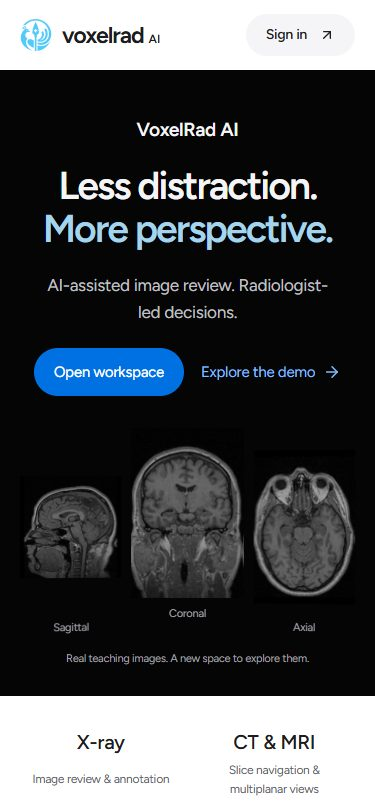
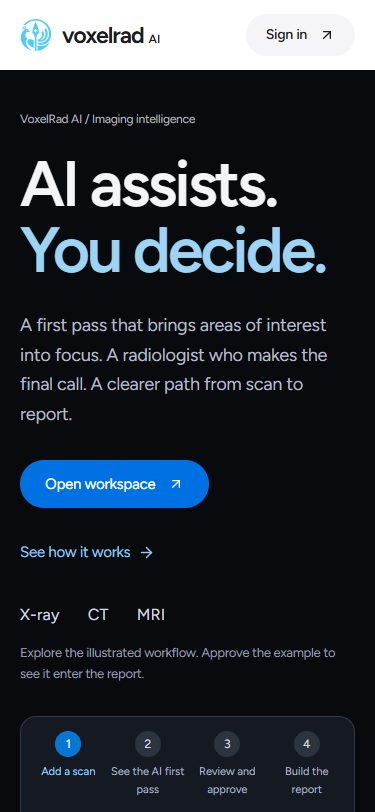
Rebuild landing hero with animated radiologist approval workflow

diff --git a/app/src/LandingPage.tsx b/app/src/LandingPage.tsx
@@ -73,10 +73,11 @@ const flowSteps = [
   { title: 'Build the report', text: 'Reviewed findings help form a report draft. Refine the impression and complete a final review before exporting.', action: 'Start again' },
 ]
 
-function ReviewFlow() {
+function ReviewFlow({ hero = false }: { hero?: boolean }) {
+  const flowRef = useRef<HTMLDivElement>(null)
   const [step, setStep] = useState(0)
   const [approved, setApproved] = useState(false)
-  const [playing, setPlaying] = useState(false)
+  const [playing, setPlaying] = useState(() => hero && !window.matchMedia('(prefers-reduced-motion: reduce)').matches)
   const [modality, setModality] = useState('CT')
   const [overlay, setOverlay] = useState(true)
   const current = flowSteps[step]
@@ -87,28 +88,35 @@ function ReviewFlow() {
   }, [playing, step])
   useEffect(() => {
     const pause = () => { if (document.hidden) setPlaying(false) }
+    const preference = window.matchMedia('(prefers-reduced-motion: reduce)')
+    const reduce = () => { if (preference.matches) setPlaying(false) }
+    const observer = new IntersectionObserver(entries => { if (entries.some(entry => !entry.isIntersecting)) setPlaying(false) })
+    if (flowRef.current) observer.observe(flowRef.current)
+    preference.addEventListener('change', reduce)
     document.addEventListener('visibilitychange', pause)
-    return () => document.removeEventListener('visibilitychange', pause)
+    return () => { observer.disconnect(); preference.removeEventListener('change', reduce); document.removeEventListener('visibilitychange', pause) }
   }, [])
   const advance = () => {
     setPlaying(false)
     if (step === 2) setApproved(true)
     if (step === 3) { setStep(0); setApproved(false) } else setStep(step + 1)
   }
-  return <div className="lp3-flow">
+  return <div ref={flowRef} id={hero ? "hero-review" : undefined} className={`lp3-flow ${hero ? "lp4-hero-flow" : ""}`} data-current-step={step} data-approved={approved}>
     <ol className="lp3-flow-nav" aria-label="Scan to report workflow">{flowSteps.map((item,index) => <li key={item.title}><button aria-current={step === index ? 'step' : undefined} onClick={() => { setPlaying(false); setStep(index) }}><span>{index + 1}</span>{item.title}</button></li>)}</ol>
+    <div className="lp3-flow-progress" aria-hidden="true"><span style={{ transform: `scaleX(${(step + 1) / 4})` }} /></div>
     <div className="lp3-flow-body">
       <div className="lp3-flow-visual" data-step={step}>
         <div className="lp3-flow-scene">
+          {step === 1 && <div className="lp3-analysis-caption" aria-hidden="true">Illustrating AI attention</div>}
           <div className="lp3-flow-scan"><div className="lp3-scan-header"><ScanLine size={15} /><span>{modality} teaching scan</span><span>Source image</span></div><img src={modality === 'CT' ? '/login/ct-poster.webp' : '/login/mr-axial.webp'} alt={`${modality} teaching scan with illustrative review overlays`} />
-          {step > 0 && overlay && <div className="lp3-evidence" aria-label="Illustrative heatmap and candidate box, not a model result"><div className="lp3-heatmap" /><div className="lp3-detection-box"><span>Candidate region</span></div></div>}
+          {step > 0 && overlay && <div key={`${step}-${modality}`} className="lp3-evidence" aria-label="Illustrative heatmap and candidate box, not a model result">{step === 1 && <div className="lp3-scan-sweep" />}<div className="lp3-heatmap" /><div className="lp3-detection-box"><span>Candidate region</span></div></div>}
           <div className="lp3-scan-footer"><span>{step === 0 ? 'Ready for review' : 'Illustrative overlay'}</span><span>{step > 1 && approved ? 'Reviewed in demo' : 'Not reviewed'}</span></div></div>
           <div className={`lp3-finding-card ${step > 0 ? 'is-visible' : ''}`}><span className="lp3-card-label">{step > 1 ? 'Radiologist review' : 'AI first pass'}</span><strong>{approved ? 'Example approved' : 'Candidate finding'}</strong><p>{approved ? 'Added to this demonstration draft.' : 'Compare the highlighted region with the original scan.'}</p><span className="lp3-review-status">{approved ? <Check size={16} /> : <Layers3 size={16} />}{approved ? 'Reviewed' : 'Needs your review'}</span></div>
           <div className={`lp3-flow-report ${step === 3 ? 'is-visible' : ''}`}><FileText size={23} /><span>REPORT DRAFT</span><h3>Your review.<br />In your report.</h3><div><strong>Findings</strong><p>{approved ? 'Example finding approved in this demo.' : 'No finding approved. Return to step 3 to review.'}</p></div><div><strong>Impression</strong><p>To be written and verified by the radiologist.</p></div><span className="lp3-report-status">Draft · Final review required</span></div>
         </div>
         <div className="lp3-flow-tools"><div aria-label="Teaching scan modality">{['CT','MRI'].map(value => <button key={value} aria-pressed={modality === value} onClick={() => setModality(value)}>{value}</button>)}</div>{step > 0 && <button aria-pressed={overlay} onClick={() => setOverlay(!overlay)}>{overlay ? 'Hide overlays' : 'Show overlays'}</button>}<button onClick={() => { setStep(0); setApproved(false); setPlaying(!playing) }}>{playing && step < 2 ? <Pause size={15} /> : <Play size={15} />}{playing && step < 2 ? 'Pause' : 'Play walkthrough'}</button></div>
       </div>
-      <div className="lp3-flow-copy" aria-live="polite"><p className="lp2-label">{String(step + 1).padStart(2,'0')} / 04</p><h3>{current.title}</h3><p>{current.text}</p>{step === 2 && <p className="lp3-review-hint">Your turn: approve this illustrative finding to see it carried into the report.</p>}<button className="lp2-primary" onClick={advance}>{step === 2 ? <Check size={17} /> : step === 3 ? <RotateCcw size={17} /> : null}{current.action}{step < 2 && <ArrowRight size={17} />}</button><p className="lp3-disclosure">Illustrative workflow, not live inference. No diagnostic finding is made. Hosted AI requires a configured model server.</p></div>
+      <div className="lp3-flow-copy" aria-live="polite"><div key={step} className="lp3-step-copy"><p className="lp2-label">{String(step + 1).padStart(2,'0')} / 04</p><h3>{current.title}</h3><p>{current.text}</p>{step === 2 && <p className="lp3-review-hint">Your turn: approve this illustrative finding to see it carried into the report.</p>}<button className="lp2-primary" onClick={advance}>{step === 2 ? <Check size={17} /> : step === 3 ? <RotateCcw size={17} /> : null}{current.action}{step < 2 && <ArrowRight size={17} />}</button><p className="lp3-disclosure">Illustrative workflow, not live inference. No diagnostic finding is made. Hosted AI requires a configured model server.</p></div></div>
     </div>
   </div>
 }
@@ -138,13 +146,13 @@ function GuidedDemo() {
 
 export function LandingPage() {
   useEffect(() => { document.title = 'VoxelRad AI — Your imaging workspace, reimagined' }, [])
-  return <div className="landing-page lp2-page">
+  return <div className="landing-page lp2-page" onKeyDownCapture={(event) => { event.currentTarget.dataset.motionInput = "keyboard" }} onPointerDownCapture={(event) => { event.currentTarget.dataset.motionInput = "pointer" }}>
     <a className="lp-skip" href="#main">Skip to content</a>
     <header className="lp2-header lp2-wrap"><a className="lp2-brand" href="/" aria-label="VoxelRad AI home"><img src="/skanda-mark.png" alt="" /><span>voxelrad<span>AI</span></span></a><nav aria-label="Main navigation"><a href="#how-it-works">How it works</a><a href="#for-you">Who it’s for</a><a href="#demo">Try the demo</a></nav><a className="lp2-nav-login" href="/workspace">Sign in <ArrowUpRight size={16} /></a></header>
     <main id="main">
-      <section className="lp3-hero" aria-labelledby="hero-title"><div className="lp2-wrap"><p className="lp3-product-name">VoxelRad AI</p><h1 id="hero-title">Less distraction.<br /><span>More perspective.</span></h1><p className="lp3-intro">AI-assisted image review. Radiologist-led decisions.</p><div className="lp3-actions"><a className="lp2-primary" href="/workspace">Open workspace</a><a className="lp3-demo-link" href="#demo">Explore the demo <ArrowRight size={18} /></a></div><div className="lp3-imaging"><figure><img src="/login/mr-sagittal.webp" alt="Sagittal MRI teaching image" /><figcaption>Sagittal</figcaption></figure><figure><img src="/login/mr-coronal.webp" alt="Coronal MRI teaching image" /><figcaption>Coronal</figcaption></figure><figure><img src="/login/mr-axial.webp" alt="Axial MRI teaching image" /><figcaption>Axial</figcaption></figure></div><p className="lp3-hero-note">Real teaching images. A new space to explore them.</p></div></section>
+      <section className="lp4-hero" aria-labelledby="hero-title"><div className="lp2-wrap lp4-hero-layout"><div className="lp4-hero-copy"><p className="lp4-kicker">VoxelRad AI / Imaging intelligence</p><h1 id="hero-title">AI assists.<br /><span>You decide.</span></h1><p className="lp4-description">A first pass that brings areas of interest into focus. A radiologist who makes the final call. A clearer path from scan to report.</p><div className="lp4-actions"><a className="lp2-primary" href="/workspace">Open workspace <ArrowUpRight size={16} /></a><a href="#how-it-works">See how it works <ArrowRight size={17} /></a></div><p className="lp4-formats">X-ray <span>CT</span> MRI</p><p className="lp4-caption">Explore the illustrated workflow. Approve the example to see it enter the report.</p></div><ReviewFlow hero /></div></section>
       <section className="lp2-capabilities lp2-wrap" aria-label="Workspace capabilities"><div><strong>X-ray</strong><span>Image review & annotation</span></div><div><strong>CT & MRI</strong><span>Slice navigation & multiplanar views</span></div><div><strong>Findings</strong><span>Evidence beside the image</span></div><div><strong>Reports</strong><span>Draft, review & export</span></div></section>
-      <section className="lp3-flow-section" id="how-it-works" aria-labelledby="flow-title"><div className="lp2-wrap"><div className="lp3-flow-heading"><p className="lp2-label">From scan to report</p><h2 id="flow-title">AI takes the first pass.<br />You make the call.</h2><p>Upload a scan. Let AI highlight areas for attention with heatmaps and boxes. Review the evidence, approve or revise the findings, then bring them into a report.</p></div><ReviewFlow /><p className="lp3-flow-benefit">Designed to help radiologists find areas of interest sooner and spend less time assembling reports.</p></div></section>
+      <section className="lp3-flow-section" id="how-it-works" aria-labelledby="flow-title"><div className="lp2-wrap"><div className="lp3-flow-heading"><p className="lp2-label">From scan to report</p><h2 id="flow-title">AI takes the first pass.<br />You make the call.</h2><p>Upload a scan. Let AI highlight areas for attention with heatmaps and boxes. Review the evidence, approve or revise the findings, then bring them into a report.</p></div><div className="lp4-process">{flowSteps.map((item,index) => <article key={item.title}><span>{String(index+1).padStart(2,'0')}</span><h3>{item.title}</h3><p>{item.text}</p></article>)}</div><a className="lp4-replay" href="#hero-review">Try the illustrated workflow <ArrowRight size={17} /></a><p className="lp3-flow-benefit">Designed to help radiologists find areas of interest sooner and spend less time assembling reports.</p></div></section>
       <section className="lp2-demo-section" id="demo" aria-labelledby="demo-title"><div className="lp2-wrap"><div className="lp2-section-title"><div><p className="lp2-label">A little less reading. A little more doing.</p><h2 id="demo-title">Meet your workspace.</h2></div><p>Try a three-step walkthrough with a real teaching scan. Change the view, add an observation, and see it in a sample draft.</p></div><GuidedDemo /></div></section>
       <section className="lp2-audience lp2-wrap" id="for-you" aria-labelledby="audience-title"><div className="lp2-section-title"><div><p className="lp2-label">Who it’s for</p><h2 id="audience-title">For people<br />who look closer.</h2></div><p>For evaluating imaging workflows, learning from anatomy, and exploring model-assisted review.</p></div><div className="lp2-audience-grid">
         <article><span>Clinical evaluation</span><h3>Radiologists & clinicians</h3><p>Explore a focused image-to-report workflow. Keep the source scan visible as you review findings and develop your interpretation.</p><ul><li>Multiplanar CT and MRI review</li><li>Image, findings and report together</li><li>Professional judgment at every step</li></ul></article>

diff --git a/app/src/landing.css b/app/src/landing.css
@@ -318,3 +318,78 @@
 @media(max-width:1050px) { .lp3-flow-nav { padding-inline:15px; gap:2px; } .lp3-flow-nav button { font-size:12px; gap:6px; } .lp3-flow-copy { padding:30px 24px; } .lp3-flow-scene { height:420px; } .lp3-flow-scan { width:260px; } .lp3-flow-scan>img { height:250px; } .lp3-finding-card { width:180px; padding:14px; } }
 @media(max-width:760px) { .lp3-flow-section { padding-block:55px; } .lp3-flow-heading>p:last-child { font-size:17px; } .lp3-flow-heading h2 { font-size:35px; } .lp3-flow-nav { grid-template-columns:1fr 1fr; padding:12px; gap:3px; } .lp3-flow-nav button { font-size:12px; } .lp3-flow-body { grid-template-columns:1fr; } .lp3-flow { border-radius:16px; } .lp3-flow-scene { height:390px; } .lp3-flow-scan { width:230px; } .lp3-flow-scan>img { height:235px; } .lp3-flow-copy { padding:28px 23px; min-height:350px; } .lp3-flow-copy h3 { font-size:28px; } .lp3-flow-copy>p:not(.lp2-label) { font-size:16px; } .lp3-finding-card { right:0; bottom:15px; width:175px; } .lp3-flow-visual { padding:12px; } .lp3-flow-report { width:235px; padding:20px; } .lp3-flow-report.is-visible { transform:translate3d(5px,0,45px) rotateY(-5deg); } .lp3-flow-benefit { font-size:17px; } }
 @media(prefers-reduced-motion:reduce) { .lp2-page * { animation:none!important; transition:none!important; } }
+/* Motion story: scan → attention → human decision → report. */
+.lp3-flow-progress { height:3px; background:#e7edf5; overflow:hidden; }
+.lp3-flow-progress>span { display:block; height:100%; background:#0071e3; transform-origin:left; transition:transform .55s cubic-bezier(.22,1,.36,1); }
+.lp3-analysis-caption { position:absolute; top:8px; left:0; right:0; text-align:center; font-size:11px; color:#536a80; z-index:2; }
+.lp3-scan-sweep { position:absolute; inset:0; border-top:2px solid #a3ddff; background:linear-gradient(to bottom,#74c8ff25,transparent 18%); transform:translateY(-100%); animation:lp-sweep 1.15s cubic-bezier(.4,0,.2,1) both; }
+@keyframes lp-sweep { 0% { transform:translateY(-90%); opacity:0; } 15% { opacity:1; } 85% { opacity:1; } 100% { transform:translateY(100%); opacity:0; } }
+.lp3-flow[data-current-step='1'] .lp3-heatmap { animation:lp-attention .8s .45s cubic-bezier(.22,1,.36,1) both; }
+@keyframes lp-attention { from { opacity:0; transform:scale(.65); } to { opacity:1; transform:scale(1); } }
+.lp3-flow[data-current-step='1'] .lp3-detection-box { animation:lp-box .45s .95s cubic-bezier(.22,1,.36,1) both; }
+@keyframes lp-box { from { opacity:0; transform:scale(1.12); } to { opacity:1; transform:scale(1); } }
+.lp3-flow[data-current-step='1'] .lp3-finding-card.is-visible { transition-delay:.95s; }
+.lp3-flow[data-current-step='2'] .lp3-finding-card { border-color:#88b9e8; }
+.lp3-flow[data-current-step='3'][data-approved=true] .lp3-finding-card { animation:lp-carry-finding .8s cubic-bezier(.65,0,.35,1) both; }
+@keyframes lp-carry-finding { 0% { visibility:visible; opacity:1; transform:translate3d(0,0,40px) rotateY(-8deg); } 65% { visibility:visible; opacity:.85; transform:translate3d(-45px,-70px,80px) scale(.7); } 100% { visibility:hidden; opacity:0; transform:translate3d(-90px,-105px,80px) scale(.35); } }
+.lp3-flow[data-current-step='3'] .lp3-flow-report.is-visible { transition-delay:.25s; }
+.lp3-flow[data-current-step='3'] .lp3-flow-report>div { animation:lp-report-line .45s .6s cubic-bezier(.22,1,.36,1) both; }
+.lp3-flow[data-current-step='3'] .lp3-flow-report>div+div { animation-delay:.78s; }
+@keyframes lp-report-line { from { opacity:0; transform:translateY(9px); } to { opacity:1; transform:translateY(0); } }
+.lp3-step-copy { animation:lp-step-copy .35s cubic-bezier(.22,1,.36,1) both; }
+@keyframes lp-step-copy { from { opacity:0; transform:translateY(7px); } to { opacity:1; transform:translateY(0); } }
+.lp3-step-copy>.lp2-primary { margin-top:27px; }
+.lp3-step-copy>p:not(.lp2-label) { font-size:17px; color:#626268; }
+.lp3-step-copy .lp3-disclosure { font-size:11px; margin-top:22px; }
+.lp2-page[data-motion-input=keyboard] *, .lp2-page[data-motion-input=keyboard] *::before { animation:none!important; transition:none!important; }
+@media(prefers-reduced-motion:reduce) { .lp2-page *,.lp2-page *::before { animation:none!important; transition:none!important; } .lp3-scan-sweep,.lp3-analysis-caption { display:none; } }
+/* The hero leads with the AI-to-radiologist decision, demonstrated in place. */
+.lp4-hero { background:#080a0e; color:#f5f5f7; padding:62px 0 65px; }
+.lp4-hero-layout { display:grid; grid-template-columns:.85fr 1.15fr; gap:60px; align-items:center; }
+.lp4-kicker { color:#b0b4bd; font-size:14px; margin-bottom:28px; }
+.lp2-page .lp4-hero h1 { font-size:clamp(64px,6.4vw,90px); font-weight:600; letter-spacing:-4px; line-height:1.03; margin-bottom:28px; }
+.lp4-hero h1 span { color:#9dd3f4; }
+.lp4-description { font-size:20px; line-height:1.65; color:#b7bbc5; max-width:430px; }
+.lp4-actions { display:flex; align-items:center; flex-wrap:wrap; gap:22px; margin-top:30px; }
+.lp4-actions>a:last-child { display:inline-flex; align-items:center; gap:8px; font-size:15px; color:#91c9f6; min-height:44px; }
+.lp4-actions>a:last-child:hover { text-decoration:underline; text-underline-offset:5px; }
+.lp4-formats { font-size:16px; letter-spacing:.015em; margin-top:45px; color:#d6dae2; }
+.lp4-formats>span { margin-inline:24px; }
+.lp4-caption { color:#939ba9; font-size:13px; max-width:350px; margin-top:15px; }
+.lp4-hero-flow { border-radius:16px; background:#151a22; color:#f5f5f7; border:1px solid #303946; }
+.lp4-hero-flow .lp3-flow-nav { padding:12px; gap:3px; border-color:#303946; }
+.lp4-hero-flow .lp3-flow-nav button { color:#aab5c4; font-size:11px; gap:6px; flex-direction:column; text-align:center; }
+.lp4-hero-flow .lp3-flow-nav button>span { background:#2c3440; color:#d6dae2; }
+.lp4-hero-flow .lp3-flow-nav button[aria-current=step] { color:#9dd3f4; }
+.lp4-hero-flow .lp3-flow-nav button[aria-current=step]>span { background:#0876d5; color:white; }
+.lp4-hero-flow .lp3-flow-progress { background:#263241; }
+.lp4-hero-flow .lp3-flow-body { grid-template-columns:1fr; }
+.lp4-hero-flow .lp3-flow-visual { background:#10151d; padding:8px 20px; }
+.lp4-hero-flow .lp3-flow-scene { height:330px; }
+.lp4-hero-flow .lp3-flow-scan { width:235px; }
+.lp4-hero-flow .lp3-flow-scan>img { height:225px; }
+.lp4-hero-flow .lp3-analysis-caption { color:#a2c6e8; top:0; }
+.lp4-hero-flow .lp3-finding-card { color:#1d1d1f; bottom:15px; right:8px; width:180px; padding:14px; }
+.lp4-hero-flow .lp3-flow-report { color:#1d1d1f; padding:18px; width:235px; }
+.lp4-hero-flow .lp3-flow-report h3 { font-size:21px; margin-block:8px 12px; }
+.lp4-hero-flow .lp3-flow-report>div { margin-top:10px; }
+.lp4-hero-flow .lp3-report-status { margin-top:12px; }
+.lp4-hero-flow .lp3-flow-tools>div { background:#263241; }
+.lp4-hero-flow .lp3-flow-tools button { color:#c6d3e2; }
+.lp4-hero-flow .lp3-flow-tools button[aria-pressed=true] { background:#3b4c62; color:white; }
+.lp4-hero-flow .lp3-flow-copy { padding:21px 24px; min-height:255px; border-top:1px solid #303946; }
+.lp4-hero-flow .lp3-step-copy>.lp2-label { display:none; }
+.lp4-hero-flow .lp3-flow-copy h3 { color:#f5f5f7; font-size:24px; margin-bottom:9px; }
+.lp4-hero-flow .lp3-step-copy>p:not(.lp2-label) { font-size:14px; color:#b7c0ce; }
+.lp4-hero-flow .lp3-step-copy>.lp2-primary { margin-top:16px; min-height:44px; padding-block:10px; font-size:13px!important; }
+.lp4-hero-flow .lp3-step-copy>.lp3-disclosure { margin-top:14px; color:#a4adbb; font-size:11px!important; }
+.lp4-hero-flow .lp3-step-copy>.lp3-review-hint { display:none; }
+.lp4-process { display:grid; grid-template-columns:repeat(4,1fr); gap:30px; margin-top:50px; }
+.lp4-process article>span { font-size:35px; color:#8b9baa; font-weight:500; }
+.lp4-process h3 { font-size:22px; margin-top:15px; }
+.lp4-process p { font-size:15px; color:#626268; }
+.lp4-replay { display:flex; align-items:center; justify-content:center; gap:10px; color:#0065c9!important; font-size:17px; margin-top:40px; }
+@media(max-width:1050px) { .lp4-hero-layout { gap:32px; grid-template-columns:.8fr 1.2fr; } .lp2-page .lp4-hero h1 { font-size:65px; letter-spacing:-3px; } .lp4-description { font-size:18px; } .lp4-hero-flow .lp3-finding-card { width:165px; right:0; } .lp4-process { grid-template-columns:1fr 1fr; gap:35px; } }
+@media(max-width:760px) { .lp4-hero { padding-block:40px; } .lp4-hero-layout { grid-template-columns:1fr; gap:32px; } .lp2-page .lp4-hero h1 { font-size:64px; letter-spacing:-2.8px; } .lp4-kicker { font-size:12px; margin-bottom:22px; } .lp4-description { font-size:18px; } .lp4-formats { margin-top:28px; } .lp4-caption { font-size:13px; } .lp4-hero-flow .lp3-flow-nav { grid-template-columns:repeat(4,1fr); gap:1px; padding:8px; } .lp4-hero-flow .lp3-flow-nav button { font-size:11px; padding:6px 2px; } .lp4-hero-flow .lp3-flow-visual { padding-inline:8px; } .lp4-hero-flow .lp3-flow-copy { padding:20px; min-height:285px; } .lp4-hero-flow .lp3-finding-card { width:155px; bottom:5px; padding:12px; } .lp4-hero-flow .lp3-finding-card>strong { font-size:15px; } .lp4-hero-flow .lp3-flow-scan { width:210px; } .lp4-hero-flow .lp3-flow-scan>img { height:205px; } .lp4-process { grid-template-columns:1fr; gap:28px; } .lp4-process article { display:grid; grid-template-columns:45px 1fr; gap:0 15px; } .lp4-process article>span { grid-row:1/3; font-size:27px; } .lp4-process h3 { margin-top:0; } .lp4-process p { grid-column:2; } }
+
+@media(min-width:761px) and (max-width:1050px) { .lp4-hero-layout { grid-template-columns:.95fr 1.05fr; gap:24px; } .lp2-page .lp4-hero h1 { font-size:56px; letter-spacing:-2.5px; } }

diff --git a/docs/design/landing-page.md b/docs/design/landing-page.md
@@ -4,7 +4,7 @@ The root is a public product introduction. `/workspace` retains backend sign-in 
 
 ## Product story
 
-The central narrative is scan intake ? AI first-pass heatmap and candidate boxes ? radiologist review and approval ? report draft. Intended benefits are earlier attention to candidate regions and less time assembling reports; no measured speed or accuracy claim is made.
+The central narrative is scan intake -> AI first-pass heatmap and candidate boxes -> radiologist review and approval -> report draft. Intended benefits are earlier attention to candidate regions and less time assembling reports; no measured speed or accuracy claim is made.
 
 `ReviewFlow` illustrates this as a four-step 3D transition. The walkthrough stops before approval. The visitor approves the example finding to include it in the demonstration report. Jumping directly to the report shows that no finding has been approved. Restart clears approval. CT/MRI switching and overlay visibility controls allow comparison with the original public teaching image.
 
@@ -14,7 +14,7 @@ Heatmaps and boxes in this explanatory animation are illustrative, not actual mo
 
 UI UX Pro Max guided the work. Apple's iPad Pro product presentation (https://www.apple.com/ipad-pro/) informed the large imaging hero, concise chapter headings, image-led explanations and neutral section contrast. No Apple assets or branding are used. Arc Library remains a reference for the existing tab/accordion interactions. Fonts remain self-hosted Figtree.
 
-The cinematic hero is followed by capabilities, the animated decision workflow, a hands-on viewer demo, audience information, FAQ and final workspace action. Isolated `lp2-`/`lp3-` classes avoid clinical-viewer collisions. Motion has reduced-motion fallbacks; the walkthrough is user-started and pauses when the tab is hidden.
+The split hero pairs “AI assists. You decide.” with the interactive scan-to-report workflow. The first pass advances automatically, then stops for radiologist approval. Scan sweeps, overlay reveals and a finding-to-report transition explain each action. Motion pauses offscreen or when the tab is hidden, respects reduced motion and stays immediate for keyboard input. UI UX Pro Max and Emil Design Engineering informed the timing. Capabilities, four workflow chapters, a hands-on viewer demo, audience information, FAQ and workspace action follow. Isolated lp2/lp3/lp4 classes avoid clinical-viewer collisions.
 
 ## Validation
 
